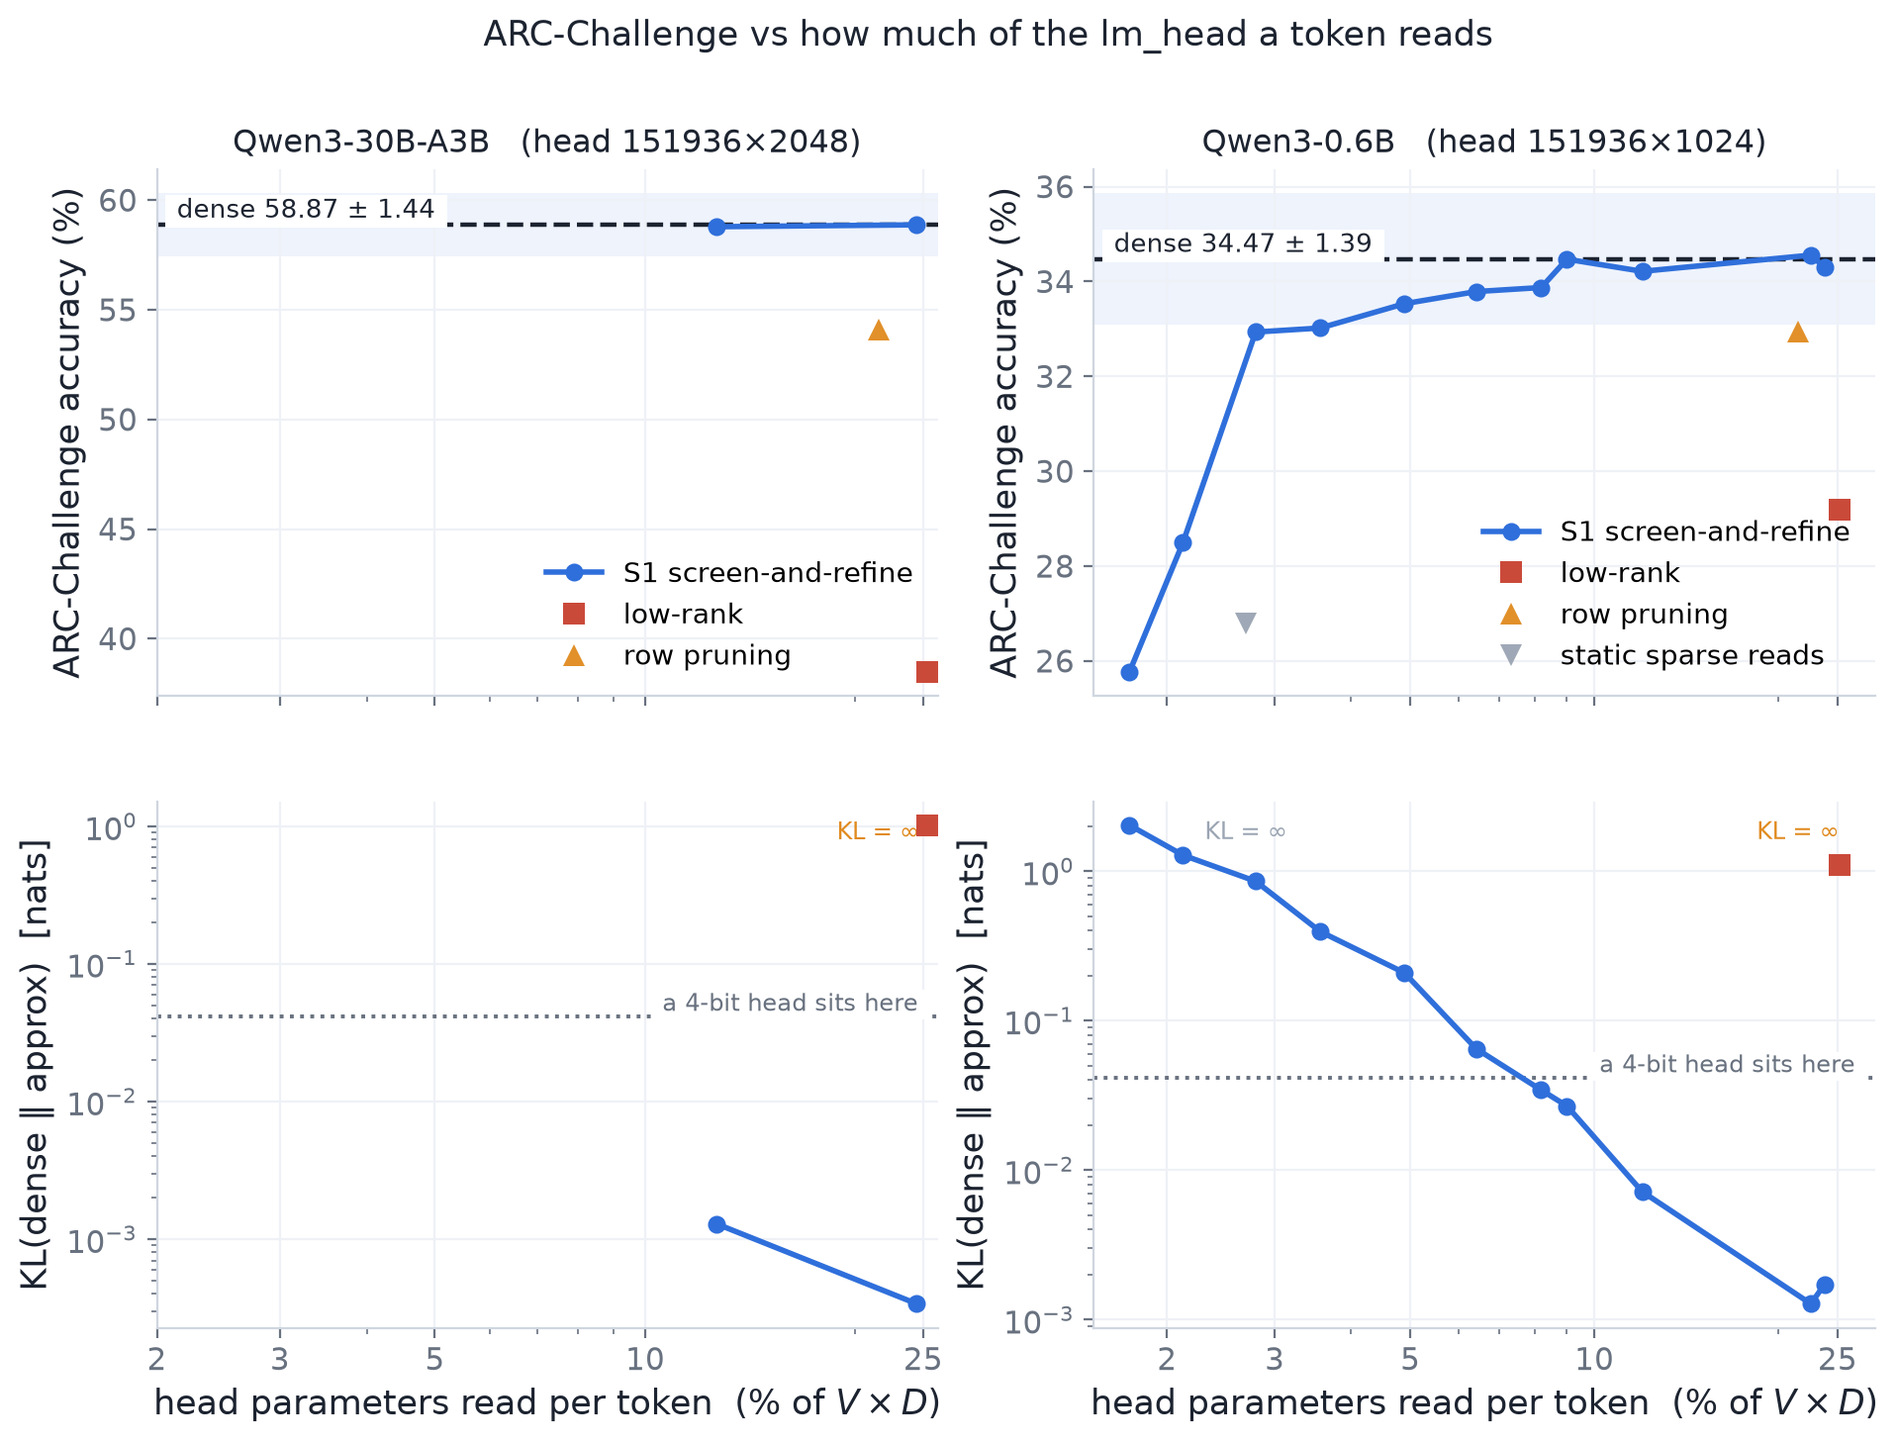
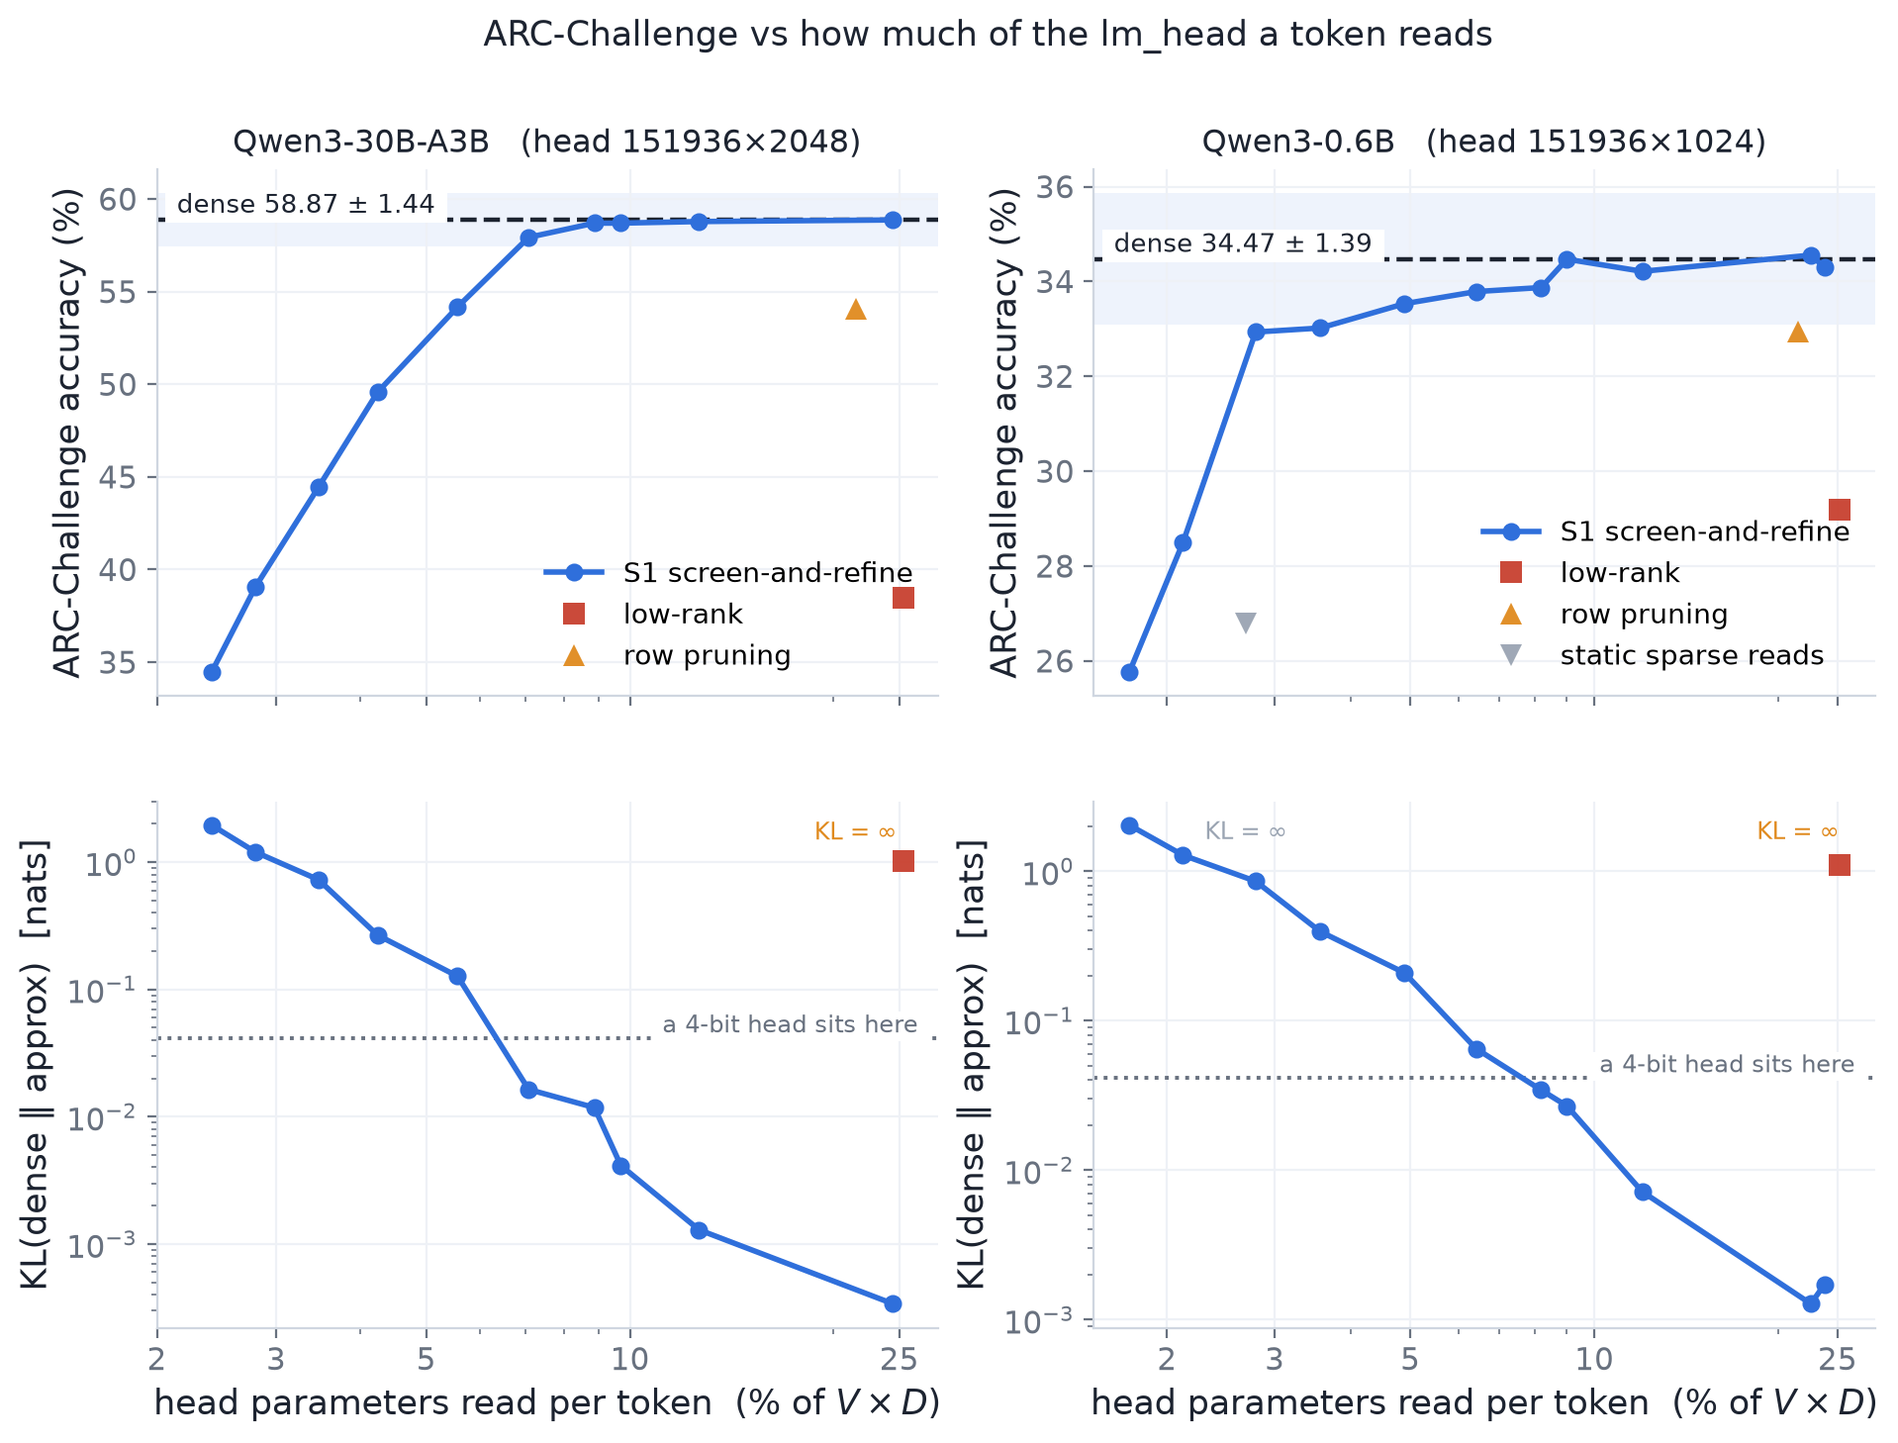
results: 30B low-read ladder complete; corrects a prediction the doc had made
All 10 variants, zero errors. 30B ARC-C (dense 58.87 +/- 1.44, chance 25.00):
   9.70%  58.70 (-0.17)  KL .0041
   8.86%  58.70 (-0.17)  KL .0118
   7.08%  57.94 (-0.94)  KL .0164
   5.56%  54.18 (-4.69)  KL .1267
   4.24%  49.57 (-9.30)  KL .2670
   3.47%  44.45 (-14.42) KL .7270
   2.80%  39.08 (-19.80) KL 1.1988
   2.41%  34.47 (-24.40) KL 1.9518

FALSIFIED: the doc predicted the 30B would degrade more slowly than the 0.6B because
its KL at matched budget is lower (.0013 vs .0072 at ~12%). The KL claim is right, the
inference was wrong -- in absolute accuracy the 30B breaks harder and earlier (-4.69 at
5.56% vs the 0.6B's -0.94 at 4.89%). Cause is headroom: ARC-C 58.87 has 33.87 pt above
chance to lose against the 0.6B's 9.47, and normalized both lose a comparable FRACTION
of headroom at comparable KL. Section 3e now says so, and says not to extrapolate a
low-read budget from a small model's task score.

Both models agree in the currency that transfers: free to ~9% of reads, knee at ~7%,
and KL stays under a 4-bit head's .0415 down to ~6.5% (30B) / ~7.7% (0.6B). So ~8% of
reads -- a 12x cut -- is the model-independent recommendation.

The _mag ablation now resolves. At the same budget the crude |h_i|-only screen costs the
30B -0.64 HellaSwag and +5.7% C4 (KL .0275, 21x the real screen), where on the 0.6B it
scored +0.68 ARC-C -- above dense -- while being 86x worse distributionally. The 0.6B
reading would have said the rotation and column norm are unnecessary.
[…]

diff --git a/scripts/check_s1_doc_numbers.py b/scripts/check_s1_doc_numbers.py
@@ -1,0 +1,87 @@
+"""Verify every S1 ladder number in results_lm_head.md against the result JSONs.
+
+The doc's §3e tables are transcribed by hand from sweep output, which is exactly the
+step where a digit gets dropped. This re-derives each (reads, ARC-C, KL) triple from the
+JSONs and diffs it against what the markdown claims.
+
+    python scripts/check_s1_doc_numbers.py
+"""
+
+import json
+import os
+import re
+import sys
+
+DOC = "docs/exps/lm_head/results_lm_head.md"
+SOURCES = {
+    "30B": ["results_eval/lm_head_s1_30b_lowread_arc.json",
+            "results_eval/lm_head_s1_30b_c4arc.json"],
+    "0.6B": ["results_eval/lm_head_s1_0_6b_lowread_arc.json",
+             "results_eval/lm_head_s1_0_6b_tasks.json"],
+}
+
+
+def measured(paths):
+    """(screen_rank, cand_size) -> measured row. Keyed on the SCREEN CONFIG, not on the
+    read fraction: `s1_r12_n8k` and the `s1_r12_n8k_mag` ablation share a budget exactly,
+    so a reads-keyed lookup silently compares a ladder row against an ablation."""
+    out = {}
+    for p in paths:
+        if not os.path.exists(p):
+            continue
+        for row in json.load(open(p))["rows"]:
+            raw = row.get("arc_challenge_raw")
+            if not isinstance(raw, dict) or row.get("screen_rank") is None:
+                continue
+            if row.get("screen_use_col_norm") is False or row.get("basis") != "ceig":
+                continue                      # ablations are not ladder points
+            inner = (raw.get("arc_challenge")
+                     if isinstance(raw.get("arc_challenge"), dict) else raw)
+            if "acc_norm,none" not in inner:
+                continue
+            out.setdefault((row["screen_rank"], row["cand_size"]), {
+                "variant": row["variant"],
+                "reads": 100 * row.get("read_param_frac", row.get("read_frac", 0)),
+                "arc": 100 * inner["acc_norm,none"],
+                "kl": row.get("kl_vs_dense"),
+            })
+    return out
+
+
+ROW = re.compile(
+    r"^\|\s*\*{0,2}(\d+)\*{0,2}\s*\|\s*\*{0,2}(\d+)\*{0,2}\s*\|"          # r0 | N
+    r"\s*\*{0,2}([\d.]+)%\*{0,2}\s*\|"                                     # reads
+    r"(?:\s*\*{0,2}[−+-][\d.]+%\*{0,2}\s*\|)?"                             # optional Δactive
+    r"\s*\*{0,2}(\d\d\.\d\d)\*{0,2}\s*\|"                                  # ARC-C
+    r"\s*\*{0,2}([−+-][\d.]+)\*{0,2}\s*\|"                                 # Δ
+    r"\s*\.?(\d+)\s*\|", re.M)
+
+
+def main():
+    text = open(DOC).read()
+    bad = checked = 0
+    for model, paths in SOURCES.items():
+        m = measured(paths)
+        for r0, N, reads, arc, delta, kl in ROW.findall(text):
+            key = (int(r0), int(N))
+            if key not in m:
+                continue
+            v = m[key]
+            if abs(v["reads"] - float(reads)) > 0.02:
+                continue                      # this table row belongs to the other model
+            checked += 1
+            if abs(v["arc"] - float(arc)) > 0.006:
+                print(f"MISMATCH {model} r0={r0} N={N} ({reads}%): "
+                      f"doc ARC-C {arc}, measured {v['arc']:.2f}  [{v['variant']}]")
+                bad += 1
+            doc_kl = float("0." + kl)
+            if v["kl"] and abs(v["kl"] - doc_kl) > 10 ** -len(kl):
+                print(f"MISMATCH {model} r0={r0} N={N}: doc KL .{kl}, "
+                      f"measured {v['kl']:.5f}  [{v['variant']}]")
+                bad += 1
+    print(f"\n{'FAILED' if bad else 'OK'}: {checked} ladder rows checked, {bad} mismatched")
+    return 1 if bad else 0
+
+
+if __name__ == "__main__":
+    sys.exit(main())

diff --git a/docs/exps/lm_head/results_lm_head.md b/docs/exps/lm_head/results_lm_head.md
@@ -30,6 +30,12 @@ Every metric is indistinguishable from dense while touching a quarter of the hea
 **+18.4 pt of HellaSwag / +4.8 pt of ARC-C above the best previously measured method at
 the same budget.** It needs no training and no quantization.
 
+24.48% is not the limit. Sweeping the budget down ([§3e](#3e-how-low-can-the-read-budget-go))
+puts the free point at **~9% of reads on both models** (30B −0.17 pt of ARC-C, 0.6B exactly
+dense), with a knee at ~7% and a collapse below ~5%. The transferable rule is stated in KL,
+not accuracy: **~8% of reads keeps the head distributionally better than a 4-bit one on both
+models** — a 12× cut.
+
 **What was wrong before.** [Part 1](#part-1--reducing-the-stored-parameter-count) closed
 sparse reads on the strength of B1-a (perplexity ∞, HellaSwag at chance) and concluded
 *"the parameter count is irreducible; only precision is compressible."* That reading
@@ -782,9 +788,25 @@ nats it is negligible, which is why the task columns come out at +0.00.
 `scripts/lm_head_read_ladder.py` prints each variant's true budget; the ladder shrinks
 **both** knobs because each has a floor — the candidate set alone costs `N/V` (5.39% at
 `N=8192`) and the rotation costs `D/V` (1.35% on the 30B). Below ~7% of reads, `N` has to
-come down too.
+come down too. Both ladders are ARC-C + KL; C4 and HellaSwag were only run at the two
+headline budgets.
 
-**Qwen3-0.6B, ARC-C (dense 34.47 ± 1.39):**
+**Qwen3-30B-A3B, ARC-C (dense 58.87 ± 1.44, chance 25.00):**
+
+| `r0` | `N` | reads | Δactive | ARC-C | Δ | KL | argmax-in-cand |
+|---|---|---|---|---|---|---|---|
+| 384 | 8192 | 24.48% | −7.01% | **58.87** | **+0.00** | .0003 | 100.000% |
+| 128 | 8192 | 12.65% | −8.11% | 58.79 | −0.09 | .0013 | 100.000% |
+| **64** | **8192** | **9.70%** | **−8.38%** | **58.70** | **−0.17** | .0041 | 99.996% |
+| **128** | **2048** | **8.86%** | **−8.46%** | **58.70** | **−0.17** | .0118 | 99.998% |
+| 64 | 4096 | 7.08% | −8.62% | 57.94 | −0.94 | .0164 | 99.947% |
+| 32 | 4096 | 5.56% | −8.76% | **54.18** | **−4.69** | .1267 | 99.452% |
+| 32 | 2048 | 4.24% | −8.89% | **49.57** | **−9.30** | .2670 | 98.215% |
+| 16 | 2048 | 3.47% | −8.96% | **44.45** | **−14.42** | .7270 | 95.237% |
+| 16 | 1024 | 2.80% | −9.02% | **39.08** | **−19.80** | 1.1988 | 89.723% |
+| 8 | 1024 | 2.41% | −9.06% | **34.47** | **−24.40** | 1.9518 | 85.433% |
+
+**Qwen3-0.6B, ARC-C (dense 34.47 ± 1.39, chance 25.00):**
 
 | `r0` | `N` | reads | ARC-C | Δ | KL | argmax-in-cand |
 |---|---|---|---|---|---|---|
@@ -799,43 +821,85 @@ come down too.
 | 8 | 1024 | 2.12% | **28.50** | **−5.97** | 1.2825 | 90.916% |
 | 4 | 1024 | 1.74% | **25.77** | **−8.70** | 2.0359 | 85.586% |
 
-Three regimes:
+Both models show the same three regimes:
 
-1. **Free down to ~9% of reads** — 34.47, exactly dense, and every point above 3.5% is
-   inside dense's ±1 stderr band.
-2. **Graceful between ~9% and ~2.8%** — the curve bends but never breaks; −1.54 pt at
-   2.79%.
-3. **Cliff below ~2.8%** — 2.12% costs −5.97 and 1.74% is at chance (25.00). This is where
-   the screen stops finding the right candidates: argmax-in-candidate falls through ~91%.
+1. **Free down to ~9% of reads.** 30B: −0.17 at 9.70% *and* at 8.86%. 0.6B: exactly dense at
+   9.02%. Both inside ±1 stderr. That is a **2.6× deeper cut than the headline 24.48%
+   operating point**, for nothing measurable.
+2. **A knee at ~7%.** Both step to about −1 pt (30B −0.94 at 7.08%, 0.6B −0.68 at 6.41%).
+3. **Then it breaks.** 30B −4.69 at 5.56% and −24.40 at 2.41%; 0.6B −0.94 at 4.89% and −8.70
+   at 1.74%. The mechanism is in the last column: argmax-in-candidate falls from ~99.9% to
+   ~85%, i.e. the screen stops surfacing the right rows and the refine stage never sees them.
 
-**Two comparisons worth stating.** At **2.79%** of reads S1 scores 32.94 — the same as row
-pruning, which stores 21.57% and reads 8× more. And at essentially B1-a's own read budget
-(2.79% vs its 2.70%), S1 scores **32.94 against B1-a's 26.79**: +6.15 pt for the same
-number of reads, which is §3a's diagnosis measured at the extreme.
+### ⚠ A prediction this ladder falsified
 
-**The task score alone would mislead you, and the KL panel is why the figure has two
-rows.** ARC-C stays inside its own noise band down to 3.5% while KL rises 20×, so a
-task-only reading would call a 4%-read head free. The right landmark: **S1's KL crosses the
-4-bit head's 0.0415 at ~8% of reads** — below that, the distribution is measurably worse
-than a 4-bit head even though ARC-C has not noticed.
+Before the 30B ladder ran, this section predicted the 30B would degrade **more slowly** than
+the 0.6B, reasoning from its lower KL at matched budget (.0013 at 12.65% against the 0.6B's
+.0072). The KL comparison is right; the conclusion drawn from it was wrong. In absolute
+accuracy the 30B breaks **harder and earlier**: −4.69 pt at 5.56% where the 0.6B costs −0.94
+at 4.89%, and −24.40 at 2.41% against −8.70 at 1.74%.
 
-An ablation makes the point unmissable. `s1_r12_n8k_mag` — the crudest possible screen,
-picking the top-`r0` entries of `h` by `|hᵢ|` with no rotation and no column norm — has
-**KL 0.6194, 86× worse** than the real screen at the identical 11.98% budget, and scores
-ARC-C **35.15 (+0.68)**, nominally *above* dense. Select on KL or perplexity; let the tasks
-certify "not catastrophic". This is the same lesson as `B1-s T=16384/tail-2b` in
-[§"What the benchmarks can and cannot see"](#what-the-benchmarks-can-and-cannot-see),
-now on a third axis.
+The cause is headroom, not fragility. ARC-C at 58.87 has **33.87 pt above chance to lose**;
+the 0.6B's 34.47 has only **9.47**. Normalized, the two lose a comparable *fraction* of
+headroom at comparable KL — 4.69/33.87 = 13.8% for the 30B at KL .127 versus 0.94/9.47 =
+9.9% for the 0.6B at KL .209. The same distributional damage simply costs a stronger model
+more points. **Do not extrapolate a low-read operating point from a small model's task
+score.** Extrapolate the KL, then convert with the target model's headroom.
 
-**Qwen3-30B-A3B:** the prediction of a later cliff holds. At the **12.65%** budget the same
-crude `|hᵢ|`-only screen costs **KL 0.0275** — 21× the real screen's 0.0013 and **×1.057 C4**,
-measurably worse but far milder than the 0.6B's 86×, exactly because the larger head's base-S1
-KL is lower there (0.0013 vs 0.0072). Tasks barely move (HellaSwag −0.64, ARC-C −0.60) since
-the graded tail keeps argmax-in-candidate at 100.000%; the loss lives in perplexity. See the
-[primary-target](#qwen3-30b-a3b--the-primary-target) and
-[diagnostics](#qwen3-30b-a3b--diagnostics-2048-calibration-states) tables (variant
-`s1_r12_n8k_mag`, `run_results/lm_head_s1_30b_mag.json`). The lower-read ladder (9.70% → 2.41%)
-is a separate run.
+### The operating point, in the currency that transfers
+
+The task-score plateau is wider than the distribution warrants, so read the safe budget off
+KL. Taking a 4-bit head's KL (.0415) as a reference both models cross:
+
+| | KL ≤ .0415 down to | ARC-C cost there |
+|---|---|---|
+| Qwen3-30B-A3B | **~6.5% of reads** | ≈ −0.9 pt |
+| Qwen3-0.6B | **~7.7% of reads** | ≈ −0.7 pt |
+
+**~8% of reads is the model-independent recommendation** — a 12× cut, still distributionally
+better than a 4-bit head on both models. Below that the two diverge sharply in task terms
+even though their KL curves stay close, which is exactly the trap the previous section
+describes.
+
+**Two comparisons worth stating.** At **2.79%** of reads the 0.6B scores 32.94 — the same as
+row pruning, which stores 21.57% and reads 8× more. And at essentially B1-a's own read budget
+(2.79% vs its 2.70%), S1 scores **32.94 against B1-a's 26.79**: +6.15 pt for the same number
+of reads, which is §3a's diagnosis measured at the extreme.
+
+### Why the figure has a KL row
+
+On the 0.6B, ARC-C stays inside its own ±1 stderr band down to 3.5% while KL rises 20×, so a
+task-only figure would call a 4%-read head free. The `s1_r12_n8k_mag` ablation — the crudest
+possible screen, top-`r0` entries of `h` by `|hᵢ|` with no rotation and no column norm (gate
+0g promoted to a sweep variant) — makes this concrete, and the two models disagree
+instructively at the identical budget:
+
+| | reads | KL | vs real screen | C4 | HellaSwag | ARC-C |
+|---|---|---|---|---|---|---|
+| 0.6B `s1_r12_n8k` | 11.98% | .0072 | — | — | — | 34.22 (−0.26) |
+| 0.6B `s1_r12_n8k_mag` | 11.98% | **.6194** | 86× worse | — | — | **35.15 (+0.68)** |
+| 30B `s1_r12_n8k` | 12.65% | .0013 | — | 25.430 (×1.003) | 78.52 (−0.05) | 58.79 (−0.09) |
+| 30B `s1_r12_n8k_mag` | 12.65% | **.0275** | 21× worse | **26.803 (×1.057)** | **77.93 (−0.64)** | **58.28 (−0.59)** |
+
+On the 0.6B the crude screen scores *above* dense while being 86× worse distributionally —
+pure noise, and a reader trusting the task score would conclude the rotation and the column
+norm are unnecessary. On the 30B, which has the headroom to resolve it, the same ablation
+costs a real **−0.64 HellaSwag and +5.7% perplexity**. **Select on KL or perplexity; let the
+tasks certify "not catastrophic."** Same lesson as `B1-s T=16384/tail-2b` in
+[§"What the benchmarks can and cannot see"](#what-the-benchmarks-can-and-cannot-see), now on
+a third axis — and here it nearly produced a wrong conclusion about S1's own components.
+
+Two loose ends, recorded rather than smoothed over:
+
+- **The crude screen's KL is 22× apart across the models** (.6194 on the 0.6B, .0275 on the
+  30B) at the same `D/16` screen width. The standard basis is evidently far better aligned
+  with what the 30B's head needs. Not investigated.
+- **Two independent runs of `s1_r12_n8k_mag` on the 30B give ARC-C 58.28 and 58.19** — one
+  item out of 1172. The method is deterministic given `C`; the difference is bf16 reduction
+  order under a different `device_map` shard layout. Treat ±0.1 pt as the reproducibility
+  floor for 30B task numbers and do not read a ranking into gaps that small. The table above
+  quotes the dedicated run (`results_eval/lm_head_s1_30b_mag.json`), which carries all three
+  metrics; the ladder run's 58.19 is in `lm_head_s1_30b_lowread_arc.json`.
 
 ## 3f. Ablations that attribute the win
 
@@ -1042,6 +1106,8 @@ Recorded because most of them produced plausible-looking wrong numbers.
 | 4 | **S1 novelty check** against SVD-softmax / adaptive softmax / MIPS-softmax | **not done**, and it gates any claim that the method is new. §3f already isolates which component would be the contribution. |
 | 5 | **Input-embedding reuse** on an untied model (§1e) | **not run.** `scripts/lm_head_embed_reuse.py` is written; it is the last untested storage idea and cannot be tested on the tied 0.6B. |
 | 6 | **F1** — reproduce/refute CSV-Decode's 18.4% \|S\|/V | **not run**; needs an external clone. Part 3 makes this less interesting than it was: S1 shows an *uncertified* screen at ~25% of reads is free, so whether a *certified* one reaches 18.4% is now a question about certificates, not about the axis. |
-| 7 | **Learned rotation** for the S1 screen | **not run.** `ceig` is off-the-shelf; the basis that maximizes per-token coefficient concentration is an orthogonal-Procrustes problem, and §3b's energy table (95.21% at `r=256`) bounds what it could buy. Low priority — KL is already 0.0003. |
+| 7 | **Learned rotation** for the S1 screen | **not run.** `ceig` is off-the-shelf; the basis that maximizes per-token coefficient concentration is an orthogonal-Procrustes problem, and §3b's energy table (95.21% at `r=256`) bounds what it could buy. Low priority at 24% of reads (KL .0003) — but §3e makes it interesting *below* 7%, where the screen is what fails. |
+| 8 | **C4 / HellaSwag on the low-read ladder** | **not run.** §3e's ladders are ARC-C + KL only. Given §3e's own finding that task scores mislead in the plateau, perplexity across the ladder would be the more informative column, and cheaper than HellaSwag. |
+| 9 | **Why the crude screen's KL differs 22× across models** (§3e) | **not investigated.** `.6194` on the 0.6B vs `.0275` on the 30B at the same `D/16` width, i.e. the standard basis suits the 30B's head far better. Would predict how much the `raw` (zero-calibration) variant can be trusted on an unseen model. |
 
 Nothing outstanding changes a conclusion above.
